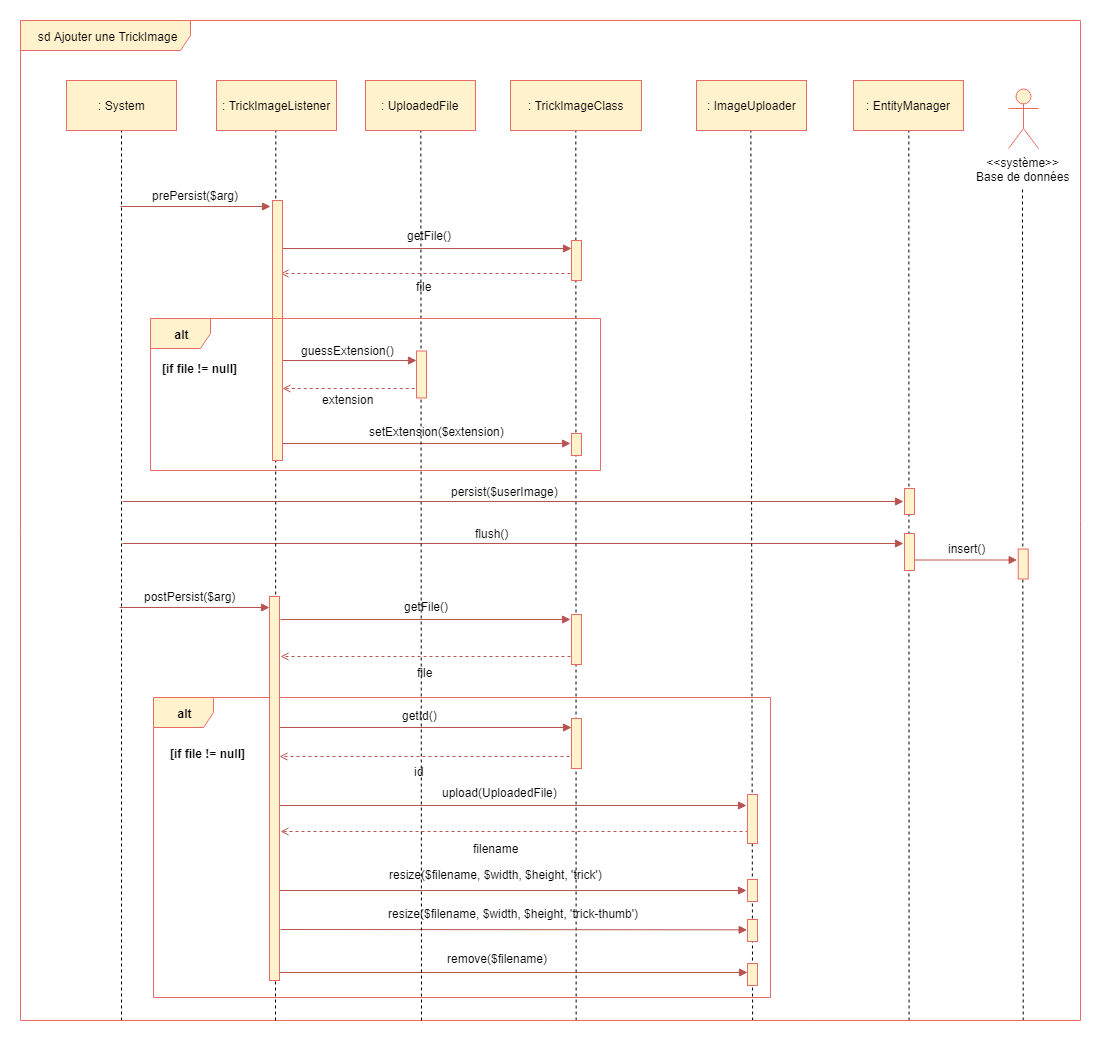
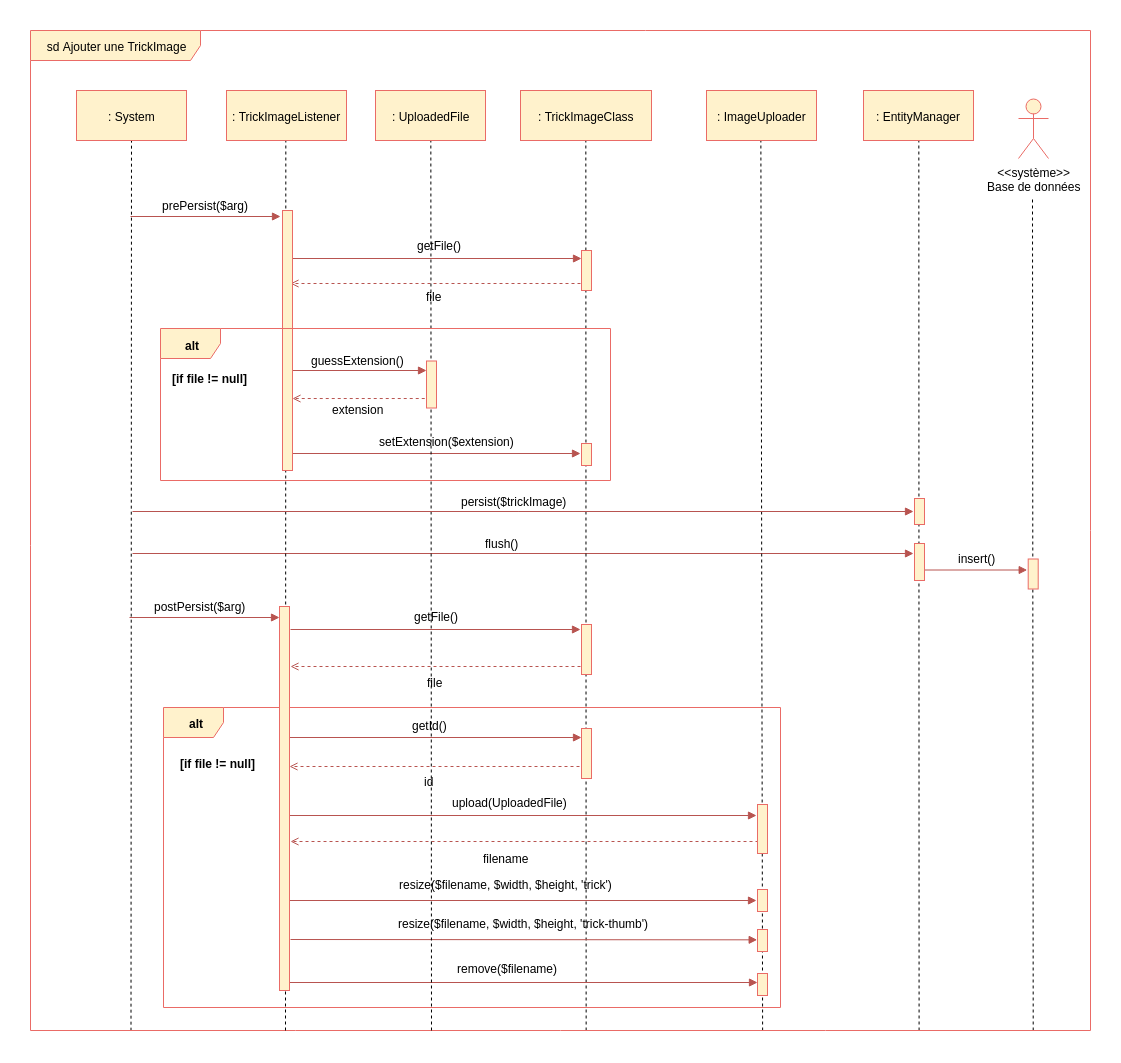
Update diagrams, update  to  in methods of Security/Trick controller

diff --git a/src/AppBundle/Controller/SecurityController.php b/src/AppBundle/Controller/SecurityController.php
@@ -52,11 +52,11 @@ class SecurityController extends Controller
             $token->setType('registration');
             $user->setToken($token);
 
-            $em = $this->getDoctrine()->getManager();
-            $em->persist($user);
+            $manager = $this->getDoctrine()->getManager();
+            $manager->persist($user);
                 
             try {
-                $em->flush();
+                $manager->flush();
                 $this->addFlash('notice', 'Registration Success !');    
                 $this->addFlash('notice', 'A confirmation link has been sent to you by email');
             } catch(ORMException $e) {
@@ -84,8 +84,8 @@ class SecurityController extends Controller
             return $this->redirectToRoute('st_index');
         }
 
-        $em = $this->getDoctrine()->getManager();
-        $token = $em->getRepository(Token::class)->getTokenWithUser($tokenCode);
+        $manager = $this->getDoctrine()->getManager();
+        $token = $manager->getRepository(Token::class)->getTokenWithUser($tokenCode);
         $actualDate = new \DateTime;
 
         if ($token == null || $token->getType() != 'registration' || $token->getExpirationDate() <= $actualDate) {
@@ -94,10 +94,10 @@ class SecurityController extends Controller
         
         $user = $token->getUser();
         $user->setIsActive(true);
-        $em->remove($token);
+        $manager->remove($token);
 
         try {
-            $em->flush();
+            $manager->flush();
             $this->addFlash('notice', 'Valid registration !');
         } catch(ORMException $e) {
             $this->addFlash('error', 'An error has occurred');
@@ -160,15 +160,15 @@ class SecurityController extends Controller
         if ($form->isSubmitted() && $captchaChecker->check() && $form->isValid()) {
             $data = $form->getData();
 
-            $em = $this->getDoctrine()->getManager();
-            $user = $em->getRepository(User::class)->findOneByUsername($data['username']);
+            $manager = $this->getDoctrine()->getManager();
+            $user = $manager->getRepository(User::class)->findOneByUsername($data['username']);
             $token = new Token;
             $token->setType('reset-pass');
             $user->setToken($token);
-            $em->persist($token);
+            $manager->persist($token);
 
             try {
-                $em->flush();
+                $manager->flush();
                 $event = new UserPostForgotEvent($user);
                 $dispatcher->dispatch(UserEvents::POST_FORGOT, $event);
                 $this->addFlash('notice', 'A reset password link has been sent to you by email');
@@ -198,8 +198,8 @@ class SecurityController extends Controller
             return $this->redirectToRoute('st_index');
         }
 
-        $em = $this->getDoctrine()->getManager();
-        $token = $em->getRepository(Token::class)->getTokenWithUser($tokenCode);
+        $manager = $this->getDoctrine()->getManager();
+        $token = $manager->getRepository(Token::class)->getTokenWithUser($tokenCode);
         $actualDate = new \DateTime;
 
         if ($token == null || $token->getType() != 'reset-pass' || $token->getExpirationDate() <= $actualDate) {
@@ -212,10 +212,10 @@ class SecurityController extends Controller
         if ($handler->validateForm($form, $request)) {
             
             $handler->handleDataToUser($form, $user);
-            $em->remove($token);
+            $manager->remove($token);
 
             try {
-                $em->flush();
+                $manager->flush();
                 $this->addFlash('notice', 'The password has been updated !');
             } catch(ORMException $e) {
                 $this->addFlash('error', 'An error has occurred');

diff --git a/src/AppBundle/Controller/TrickController.php b/src/AppBundle/Controller/TrickController.php
@@ -50,12 +50,12 @@ class TrickController extends Controller
         $form->handleRequest($request);
 
         if ($form->isSubmitted() && $captchaChecker->check() && $form->isValid()) {
-            $em = $this->getDoctrine()->getManager();
+            $manager = $this->getDoctrine()->getManager();
             $trick->setUser($this->getUser());
-            $em->persist($trick);
+            $manager->persist($trick);
 
             try {
-                $em->flush();
+                $manager->flush();
                 $this->addFlash('notice', 'Success ! Trick was added !');
             } catch(ORMException $e) {
                 $this->addFlash('error', 'An error has occurred');
@@ -81,7 +81,7 @@ class TrickController extends Controller
      */
     public function editAction(Request $request, CaptchaChecker $captchaChecker, Trick $trick)
     {
-        $em = $this->getDoctrine()->getManager();
+        $manager = $this->getDoctrine()->getManager();
 
         $form = $this->createForm(TrickType::class, $trick);
         $form->handleRequest($request);
@@ -89,18 +89,18 @@ class TrickController extends Controller
         if ($form->isSubmitted() && $captchaChecker->check() && $form->isValid()) {
             foreach ($trick->getImages() as $image) {
                 if ($image->getId() == null) {
-                    $em->persist($image);
+                    $manager->persist($image);
                 }
             }
 
             foreach ($trick->getVideos() as $video) {
                 if ($video->getId() == null) {
-                    $em->persist($video);
+                    $manager->persist($video);
                 }
             }
 
             try {
-                $em->flush();
+                $manager->flush();
                 $this->addFlash('notice', 'Success ! Trick was updated !');
             } catch(ORMException $e) {
                 $this->addFlash('error', 'An error has occurred');

diff --git a/src/AppBundle/ParamConverter/TrickParamConverter.php b/src/AppBundle/ParamConverter/TrickParamConverter.php
@@ -22,18 +22,18 @@ class TrickParamConverter implements ParamConverterInterface
      * @var EntityManagerInterface
      * @access private
     */
-    private $em;
+    private $manager;
 
     /**
      * Constructor
      * @access public
-     * @param EntityManagerInterface $em
+     * @param EntityManagerInterface $manager
      * 
      * @return void
      */
-    public function __construct(EntityManagerInterface $em)
+    public function __construct(EntityManagerInterface $manager)
     {
-        $this->em = $em;
+        $this->manager = $manager;
     }
 
     /**
@@ -51,7 +51,7 @@ class TrickParamConverter implements ParamConverterInterface
      */
     public function apply(Request $request, ParamConverter $configuration)
     {
-        $trick = $this->em->getRepository(Trick::class)->getTrick($request->attributes->get('slug'));
+        $trick = $this->manager->getRepository(Trick::class)->getTrick($request->attributes->get('slug'));
 
         if ($trick == null) {
             throw new NotFoundHttpException();
